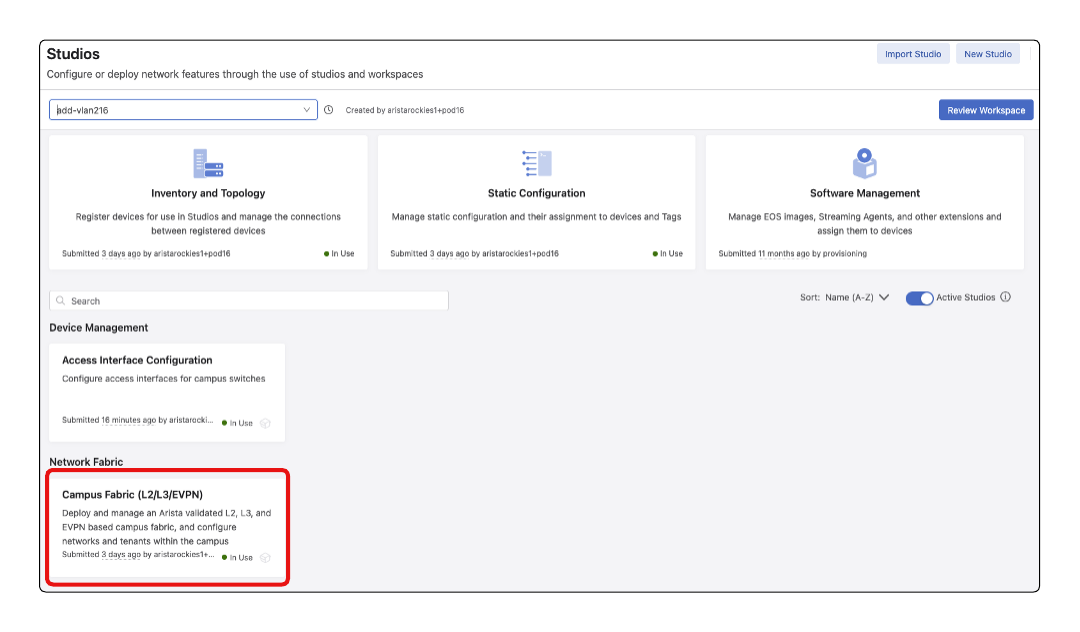
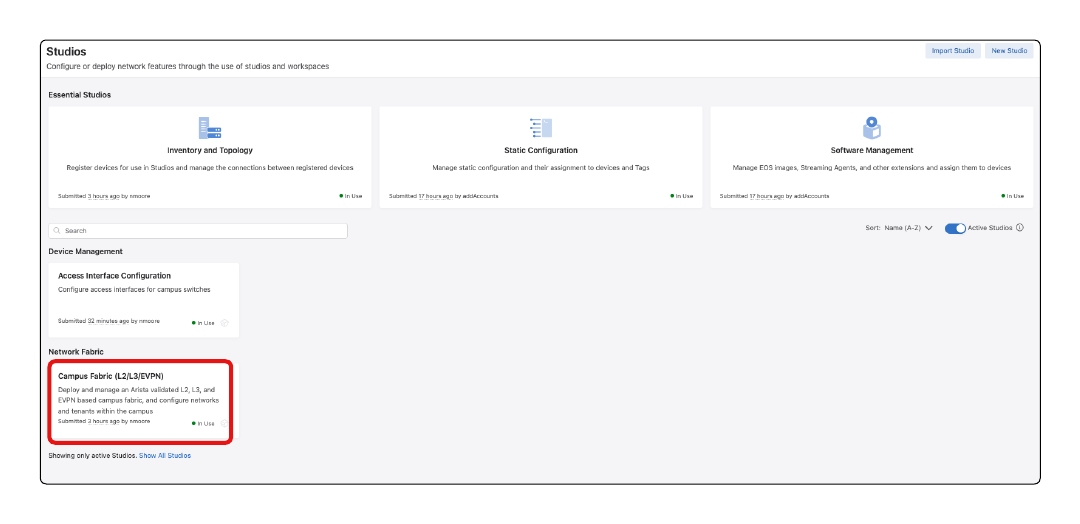
Adding Workspace Island images and workflow

diff --git a/Campus/2026_Campus_Workshop/A-03/2026_Campus_A-03_Wired_Lab_Guide.md b/Campus/2026_Campus_Workshop/A-03/2026_Campus_A-03_Wired_Lab_Guide.md
@@ -62,7 +62,8 @@ Adding a VLAN is a common provisioning task. Let’s use the existing Campus Fab
 ![Provisioning Studios](images/provisioning-studios.png)
 
 2. Create a new Workspace 
-     - name it similar to  “<add-vlan2##>” where ## is your pod number. Examples:
+     - Select the **+** on the Workspace bar on the bottom of the page
+     - name the workspace  “<add-vlan2##>” where ## is your pod number. Examples:
 
         Pod 1 = VLAN 201  
         Pod 2 = VLAN 202  
@@ -73,6 +74,7 @@ Adding a VLAN is a common provisioning task. Let’s use the existing Campus Fab
 ![Create Workspace](images/create-workspace.png)
 
 3. Once the workspace is created, select **Campus Fabric (L2/L3/EVPN)** studio. 
+
 *If the Studios main page is not present you may have to select the blue Studios breadcrumb towards the top left of the page*
 
 ![Campus Fabric Studio](images/campus-fabric-studio.png)
@@ -116,7 +118,7 @@ Adding a VLAN is a common provisioning task. Let’s use the existing Campus Fab
 
 You can skip entries for all of the remaining vlan configuration sections.
 
-11. Click **Review Workspace** to submit the staged changes.
+11. Select the **Clipboard Icon** on the bottom of the page to **Review Workspace** and see the proposed changes.
 
 ![Review Workspace](images/review-workspace.png)
 
@@ -198,7 +200,7 @@ Let’s roll back the change control we used to add a VLAN via Studios.
 
 ![Execute Rollback](images/execute-rollback.png)
 
-6. Monitor the change control for completion to ensure the added VLAN is cleaned up on all three switches.
+6. Monitor the change control for completion to ensure the added VLAN is cleaned up on both switches.
 
 ![Rollback Completed](images/rollback-completed.png)
 
